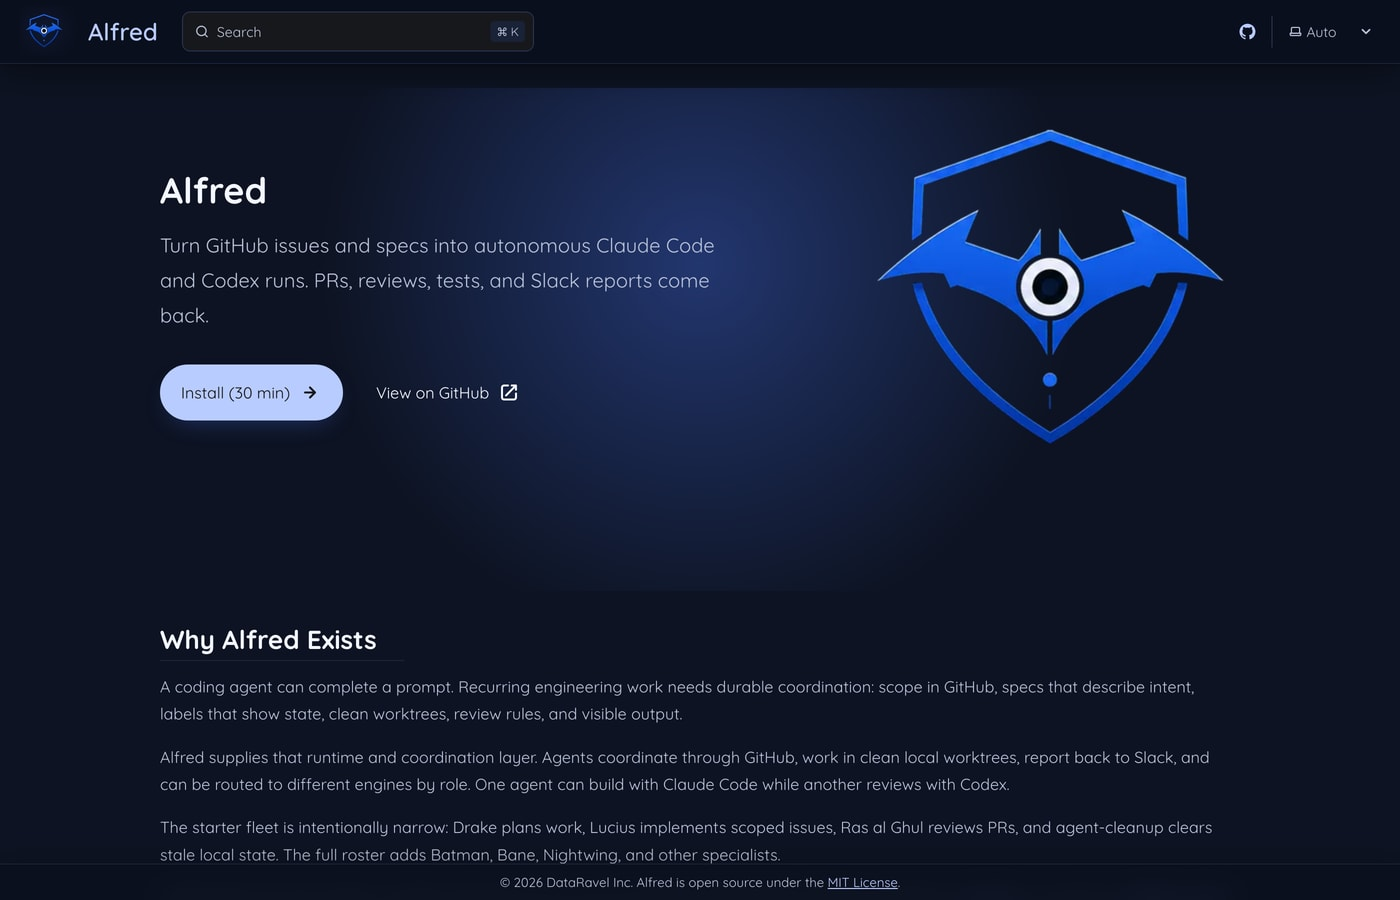
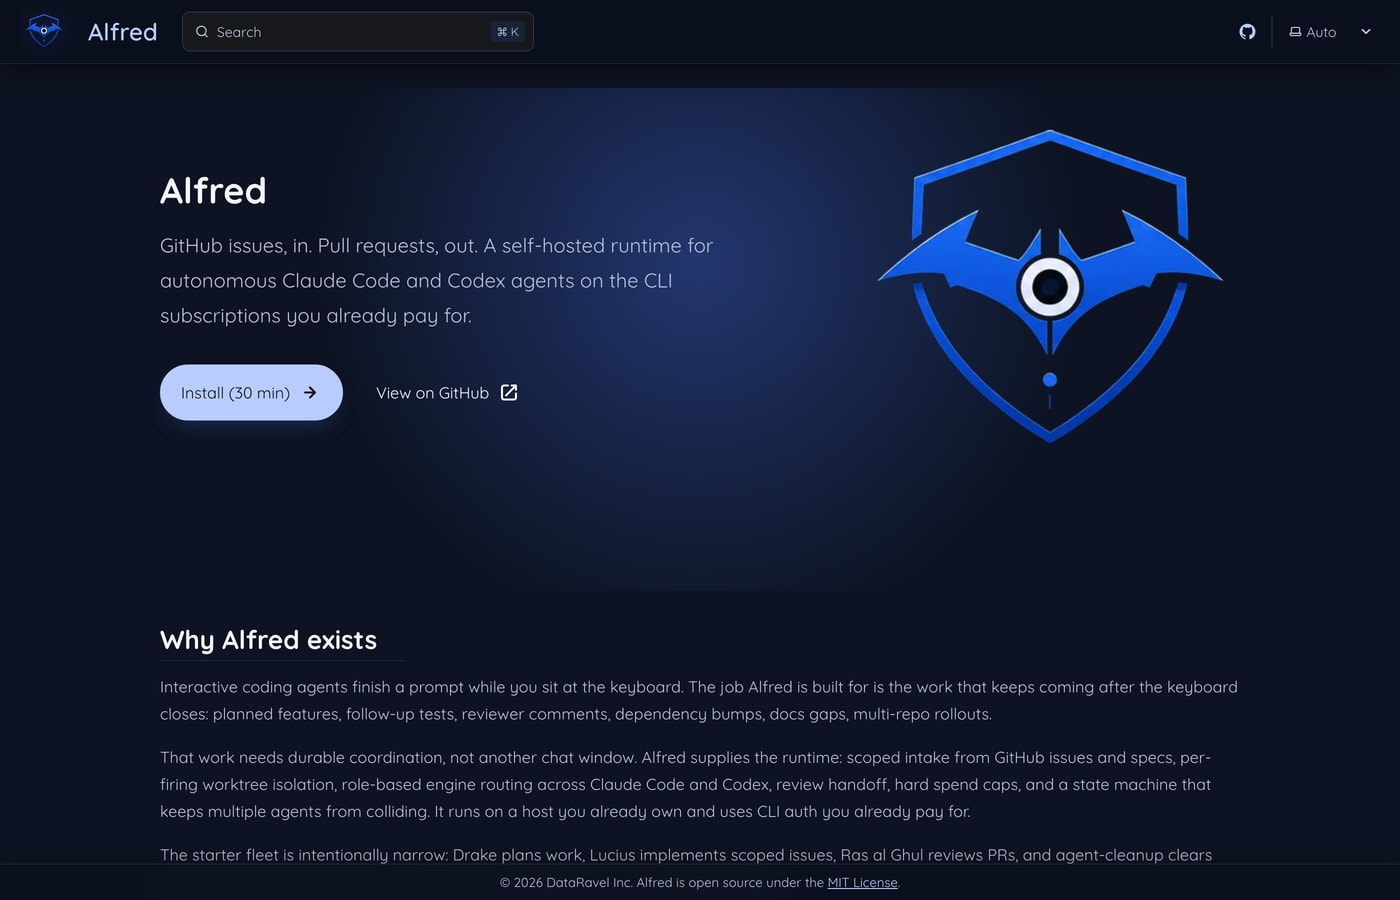
Apply sharper Alfred positioning across summary, note, and overview
Drop the 'on your own Mac or Linux host' framing. OS detail is not positioning; it belongs in tags, not in a directory summary. The differentiation that actually matters in this directory is the CLI-subscription wedge (you do not pay for LLM calls twice) and the GitHub-native state machine.

Summary now leads with the same couplet that runs across Alfred's README, docs hero, and OG image: 'GitHub issues, in. Pull requests, out.' Cover the product name and a reader can still tell what this is.

Overview restructured around three concrete moves:
- What it is plus the cost-and-runtime differentiation (no provider API keys, no cloud agent service, no second LLM bill).
- How GitHub-native intake works (labels, specs, worktrees, reviewed PRs, Slack summaries).
- Where Alfred sits relative to the interactive CLI agents the reader already uses.

Refreshed listing screenshot too: the homepage hero now reflects the same copy, so the platform-context.jpg shows the new positioning rather than the older 'autonomous Claude Code and Codex runs' tagline.

diff --git a/src/data/orchestrators.ts b/src/data/orchestrators.ts
@@ -495,13 +495,13 @@ export const orchestrators: OrchestratorEntry[] = [
       surface: "dark"
     },
     summary:
-      "Self-hosted runtime for autonomous Claude Code and Codex agents that turn GitHub issues into pull requests on your own Mac or Linux host.",
+      "GitHub issues, in. Pull requests, out. A self-hosted runtime for autonomous Claude Code and Codex agents on the CLI subscriptions you already pay for.",
     note:
-      "Centers orchestration on scheduled agent firings, GitHub label state, isolated git worktrees, role-based engine routing, and Slack reporting.",
+      "Centers orchestration on scheduled agent firings, GitHub label state, per-firing git worktrees, role-based engine routing, and Slack reporting.",
     overview: [
-      "Alfred is an MIT-licensed Python runtime for autonomous engineering agents that run locally on a Mac or Linux host. Each agent is a small role (planner, implementer, reviewer, tester) backed by Claude Code or Codex on your own CLI subscription. No API keys, no cloud agent service.",
-      "Work intake is GitHub-native: scoped issues and specs define what to do, labels (agent:implement, agent:in-flight, agent:pr-open, agent:done) hold state, and each firing runs in a fresh git worktree. Results land as pull requests, reviewer comments, follow-up tests, and Slack summaries.",
-      "Alfred is the operating layer around coding sessions: scoped intake, engine routing per role, worktree isolation, bounded autonomy, review handoff, and repeatable scheduled runs across one repo or many."
+      "Alfred is an MIT-licensed Python runtime for autonomous engineering agents. Each agent is a narrow role (planner, implementer, reviewer, tester) backed by your own Claude Code or Codex CLI subscription. No provider API keys, no cloud agent service, no second LLM bill.",
+      "Work intake is GitHub-native: scoped issues and specs define what to do, labels (agent:implement, agent:in-flight, agent:pr-open, agent:done) hold state, and each firing runs in a fresh git worktree. Results land as reviewed pull requests, follow-up tests, and Slack summaries.",
+      "Alfred is the operating layer around the CLI coding agents you already use: scoped intake, role-based engine routing, worktree isolation, bounded autonomy, review handoff, and scheduled runs across one repo or many."
     ],
     bestFor: ["GitHub issue to pull request workflows", "Multi-repo engineering agent fleets", "Routing Claude Code and Codex by role"],
     tags: ["autonomous agents", "engineering agents", "Claude Code", "Codex", "GitHub issues", "specs", "worktrees", "pull requests", "self-hosted", "MIT"],